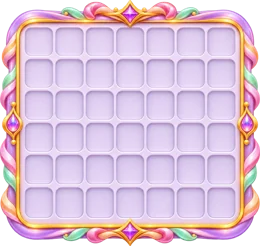
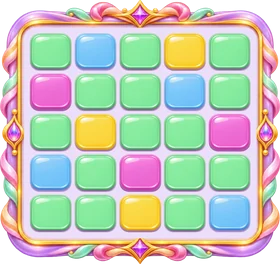
Each board has its own four tile colours; shop thumbnails show them
Claude-Session: https://claude.ai/code/session_01AtPrjwobxeDtWKkej1gnXv

diff --git a/index.html b/index.html
@@ -1563,15 +1563,15 @@ const painted = () => true;   // every board is painted now; the old drawn piece
 /* the frame pictures: size of the cropped picture, where its bed of tiles starts and how big it is (all in picture pixels), and the colour that hides the grid painted into it */
 const FRAMES = {
   classic: { src: 'frame', w: 1154, h: 1111, bx: 98, by: 124, bw: 958, bh: 863, bed: '#EDE1F6', edge: '#CDB6E6' },
-  forest:  { src: 'frame-forest',  w: 1185, h: 1130, bx: 100, by: 111, bw: 988, bh: 901, bed: '#D1E9DA', edge: '#B4D2C0' },
-  crystal: { src: 'frame-crystal', w: 1164, h: 1126, bx: 89,  by: 115, bw: 988, bh: 901, bed: '#DBE3FD', edge: '#BFC9F0' },
-  flower:  { src: 'frame-flower',  w: 1220, h: 1139, bx: 117, by: 120, bw: 988, bh: 901, bed: '#F0E2F9', edge: '#DCC3EC' },
-  stars: { src: 'frame-stars', w: 1250, h: 1182, bx: 141, by: 162, bw: 967, bh: 877, bed: '#E9DAF4', edge: '#CDBFD6' },
-  coral: { src: 'frame-coral', w: 1145, h: 1055, bx: 97, by: 97, bw: 951, bh: 861, bed: '#F1D3ED', edge: '#D4B9D0' },
-  mushroom: { src: 'frame-mushroom', w: 1210, h: 1136, bx: 118, by: 126, bw: 973, bh: 882, bed: '#EADDF6', edge: '#CDC2D8' },
-  candy: { src: 'frame-candy', w: 1197, h: 1130, bx: 102, by: 119, bw: 993, bh: 901, bed: '#EDDEF9', edge: '#D0C3DB' },
-  ocean: { src: 'frame-ocean', w: 1196, h: 1093, bx: 113, by: 126, bw: 971, bh: 868, bed: '#EBDDFA', edge: '#CEC2DC' },
-  royal: { src: 'frame-royal', w: 1197, h: 1139, bx: 104, by: 152, bw: 990, bh: 883, bed: '#ECDBFA', edge: '#CFC0DC' },
+  forest:  { src: 'frame-forest',  w: 1185, h: 1130, bx: 100, by: 111, bw: 988, bh: 901, bed: '#D1E9DA', edge: '#B4D2C0', tiles: ['k-turquoise', 'k-mint-green', 'k-lavender', 'k-coral-peach'] },
+  crystal: { src: 'frame-crystal', w: 1164, h: 1126, bx: 89,  by: 115, bw: 988, bh: 901, bed: '#DBE3FD', edge: '#BFC9F0', tiles: ['k-turquoise', 'k-sky-blue', 'k-lavender', 'k-pearl-white'] },
+  flower:  { src: 'frame-flower',  w: 1220, h: 1139, bx: 117, by: 120, bw: 988, bh: 901, bed: '#F0E2F9', edge: '#DCC3EC', tiles: ['k-mint-green', 'k-magenta-pink', 'k-lavender', 'k-orange'] },
+  stars: { src: 'frame-stars', w: 1250, h: 1182, bx: 141, by: 162, bw: 967, bh: 877, bed: '#E9DAF4', edge: '#CDBFD6', tiles: ['k-royal-purple', 'k-sky-blue', 'k-lavender', 'k-yellow-gold'] },
+  coral: { src: 'frame-coral', w: 1145, h: 1055, bx: 97, by: 97, bw: 951, bh: 861, bed: '#F1D3ED', edge: '#D4B9D0', tiles: ['k-magenta-pink', 'k-coral-peach', 'k-lavender', 'k-orange'] },
+  mushroom: { src: 'frame-mushroom', w: 1210, h: 1136, bx: 118, by: 126, bw: 973, bh: 882, bed: '#EADDF6', edge: '#CDC2D8', tiles: ['k-magenta-pink', 'k-lavender', 'k-royal-purple', 'k-mint-green'] },
+  candy: { src: 'frame-candy', w: 1197, h: 1130, bx: 102, by: 119, bw: 993, bh: 901, bed: '#EDDEF9', edge: '#D0C3DB', tiles: ['k-sky-blue', 'k-mint-green', 'k-magenta-pink', 'k-yellow-gold'] },
+  ocean: { src: 'frame-ocean', w: 1196, h: 1093, bx: 113, by: 126, bw: 971, bh: 868, bed: '#EBDDFA', edge: '#CEC2DC', tiles: ['k-sky-blue', 'k-turquoise', 'k-lavender', 'k-mint-green'] },
+  royal: { src: 'frame-royal', w: 1197, h: 1139, bx: 104, by: 152, bw: 990, bh: 883, bed: '#ECDBFA', edge: '#CFC0DC', tiles: ['k-royal-purple', 'k-lavender', 'k-ruby-red', 'k-yellow-gold'] },
 };
 const frameOf = () => FRAMES[typeof P !== 'undefined' && P ? lookOf('board') : 'classic'] || FRAMES.classic;
 function pic(g, name, x, y, w, h, cls) {
@@ -1590,9 +1590,10 @@ function tray(g, W, H) {
   el('rect', { x: -f.bed, y: -f.bed, width: W + 2 * f.bed, height: H + 2 * f.bed, rx: .3, fill: f.F.bed }, g);          // the frames were painted with a grid of their own; the bed hides it for every size
   el('rect', { x: -f.bed, y: -f.bed, width: W + 2 * f.bed, height: H + 2 * f.bed, rx: .3, fill: 'none', stroke: f.F.edge, 'stroke-width': .03 }, g);
 }
-const TILE_ART = { 'var(--t-blue)': 't-blue', 'var(--t-green)': 't-green', 'var(--t-purple)': 't-purple', 'var(--t-orange)': 't-orange' };
+const TILE_FACE = ['var(--t-blue)', 'var(--t-green)', 'var(--t-purple)', 'var(--t-orange)'], TILE_BASE = ['t-blue', 't-green', 't-purple', 't-orange'];
+const tileArt = face => { const i = TILE_FACE.indexOf(face); return i < 0 ? null : (frameOf().tiles || TILE_BASE)[i]; };   // each board brings its own four colours
 function tile(g, x, y, face) {
-  if (painted() && TILE_ART[face]) return pic(g, TILE_ART[face], x + .035, y + .035, .93, .93, 'tl');
+  if (painted() && tileArt(face)) return pic(g, tileArt(face), x + .035, y + .035, .93, .93, 'tl');
   el('rect', { x: x + .05, y: y + .05, width: .9, height: .9, rx: .17, fill: 'var(--t-shade)' }, g);
   el('rect', { x: x + .05, y: y + .05, width: .9, height: .82, rx: .17, fill: face }, g);
   el('rect', { x: x + .14, y: y + .11, width: .3, height: .09, rx: .045, fill: '#fff', opacity: .55 }, g);

diff --git a/sw.js b/sw.js
@@ -1,7 +1,7 @@
 /* BEAM service worker: the game keeps working with no connection.
    The page itself is fetched fresh whenever the network answers, so updates arrive on the next visit;
    everything else (clips, icons) is served from the cache first. Bump VERSION when those files change. */
-const VERSION = 'beam-v35';
+const VERSION = 'beam-v36';
 const SHELL = ['./', 'manifest.webmanifest', 'icon.webp', 'icons/icon-192.png', 'icons/icon-512.png', 'icons/favicon-32.png', 'icons/favicon-96.png', 'icons/apple-180.png', 'media/cheer2.mp4', 'media/fly.mp4', 'media/hero.webp', 'media/garden/bg.webp', 'media/map/bg.webp', 'media/ui/shop.webp', 'media/ui/home.webp', 'media/ui/invite.webp', 'media/ui/trophy.webp', 'media/ui/decor.webp', 'media/ui/duel.webp', 'media/ui/medal.webp', 'media/ui/calendar.webp', 'media/ui/gift.webp', 'media/ui/help.webp', 'media/ui/gear.webp', 'media/ui/star.webp', 'media/ui/coin1.webp', 'media/ui/coin2.webp', 'media/ui/coin3.webp', 'media/ui/t-reset.webp', 'media/ui/t-mirror.webp', 'media/ui/t-hint.webp', 'media/ui/t-hammer.webp', 'media/board/frame.webp', 'media/board/bg.webp', 'media/board/t-blue.webp', 'media/board/t-green.webp', 'media/board/t-orange.webp', 'media/board/t-purple.webp', 'media/board/wall.webp', 'media/board/bomb.webp', 'media/board/mir-a.webp', 'media/board/mir-b.webp', 'media/board/star.webp', 'media/board/star-off.webp', 'media/board/fly.webp'];
 
 self.addEventListener('install', e => {
